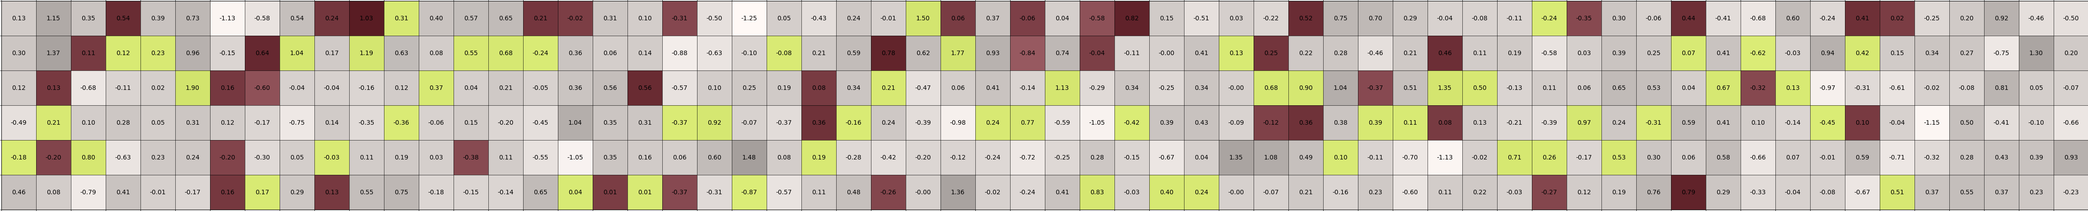
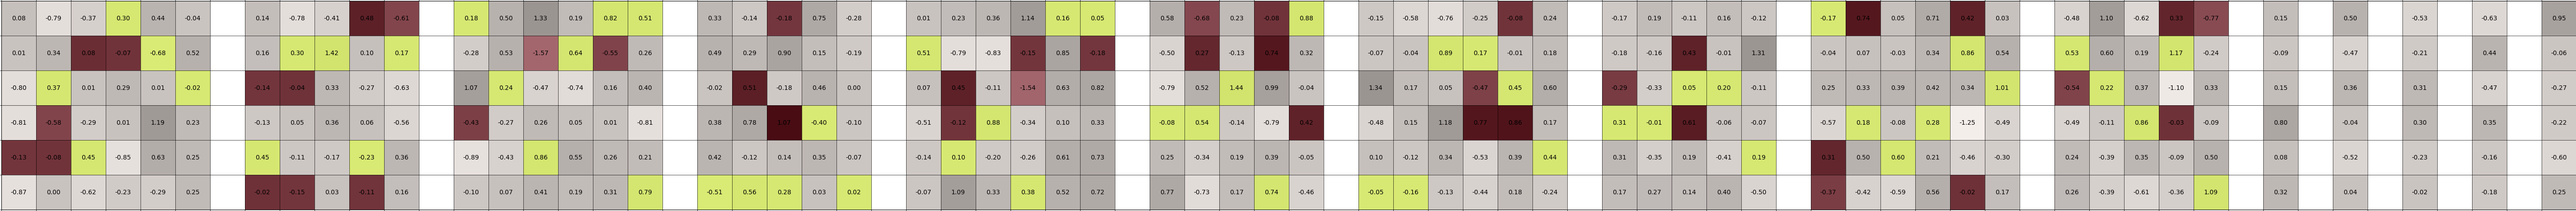
Made so there is space in the evolution images between jobs

diff --git a/code/inference/utils.py b/code/inference/utils.py
@@ -78,11 +78,38 @@ def topk_binary_matrix(tensor: torch.Tensor, k: int, valid_slots: torch.Tensor):
 
 
 
+
+
+
+
+def insert_column_gaps(matrix, job_lengths, gap_size=1):
+    """
+    Inserts NaN columns between job groups.
+    """
+    H, W = matrix.shape
+    new_cols = []
+    col_start = 0
+
+    for i, length in enumerate(job_lengths):
+        cols = matrix[:, col_start:col_start + length]
+        new_cols.append(cols)
+
+        col_start += length
+
+        # insert gap except after last job
+        if i < len(job_lengths) - 1:
+            gap = np.full((H, gap_size), np.nan)
+            new_cols.append(gap)
+
+    return np.concatenate(new_cols, axis=1)
+
+
 def show_schedule_over_time(
     schedule_over_time: torch.Tensor,  # shape (batch, 1, H, W)
     overlay: torch.Tensor,             # shape (1, 1, H, W), binary 0/1
     save_path: str,
     filled_assignments: torch.Tensor,
+    job_lenghts: list[int],
     show_values: bool = False,
     cell_size: float = 0.5,   # NEW: controls how large each cell is
 ):  
@@ -96,24 +123,23 @@ def show_schedule_over_time(
         schedule = schedule_over_time[i, 0].cpu().numpy()
         H, W = schedule.shape
 
-        fig, ax = plt.subplots(figsize=(W * cell_size, H * cell_size))
+        schedule = insert_column_gaps(schedule, job_lenghts, gap_size=1)
+        overlay_matrix_gapped = insert_column_gaps(overlay_matrix, job_lenghts, gap_size=1)
+        filled_mask_gapped = insert_column_gaps(filled_mask, job_lenghts, gap_size=1)
 
-        # base matrix
+        H2, W2 = schedule.shape
+
+        fig, ax = plt.subplots(figsize=(W2 * cell_size, H * cell_size))
+
         ax.matshow(schedule, cmap="gray_r")
+        ax.matshow(overlay_matrix_gapped, cmap="Reds", alpha=0.6)
 
-        # red overlay
-        ax.matshow(overlay_matrix, cmap="Reds", alpha=0.6)
-
-        # --- yellow overlay ---
-        # intensity based on how close schedule value is to 1
-        yellow_mask = filled_mask == 1
-        yellow_overlay = np.ma.masked_where(~yellow_mask, filled_mask)
-
+        yellow_mask = filled_mask_gapped == 1
+        yellow_overlay = np.ma.masked_where(~yellow_mask, filled_mask_gapped)
         ax.matshow(yellow_overlay, cmap="Wistia", alpha=0.9)
 
-
-        # grid lines
-        ax.set_xticks(np.arange(-0.5, W, 1), minor=True)
+        # grid
+        ax.set_xticks(np.arange(-0.5, W2, 1), minor=True)
         ax.set_yticks(np.arange(-0.5, H, 1), minor=True)
         ax.grid(which="minor", color="black", linewidth=0.5)
 
@@ -122,20 +148,13 @@ def show_schedule_over_time(
 
         if show_values:
             for y in range(H):
-                for x in range(W):
+                for x in range(W2):
                     value = schedule[y, x]
-                    ax.text(
-                        x, y,
-                        f"{value:.2f}",
-                        va="center",
-                        ha="center",
-                        fontsize=10
-                    )
+                    if not np.isnan(value):
+                        ax.text(x, y, f"{value:.2f}", va="center", ha="center", fontsize=10)
 
         plt.savefig(f"{save_path}/{i+1}.png", bbox_inches="tight", pad_inches=0)
         plt.close()
-
-
 
 
 

diff --git a/code/inference/main.py b/code/inference/main.py
@@ -20,7 +20,7 @@ import matplotlib
 matplotlib.use('Agg')
 
 import torch
-
+import numpy as np
 
 def compute_job_lengths(indices):
     """
@@ -206,13 +206,16 @@ def get_inference_result(problem_type, instance_idx, model_type, order: bool):
         #utils.show_schedule_over_time(result, ops_ma_adj, save_path, show_values=True)
         print("ops se order")
 
-        column_groups = [5,6,5,6,5,6,5,6,5,6]
-
+        # ops_sequence_order = td["ops_sequence_order"][:,:,:6,:60]
+        values = np.linspace(0, 1, 56)[1:]  # remove the 0
+        print(values)
+        job_lenghts = utils.make_job_lengths(ops_sequence_order)
         utils.show_schedule_over_time(
             result,
             ops_ma_adj,
             save_path,
             given_assignments,
+            job_lenghts,
             show_values = True,
             cell_size = 1
         )

diff --git a/notater/todo.md b/notater/todo.md
@@ -1,4 +1,42 @@
 
+
+Skeduleringsfeil kommer av fogjande:
+Nar det er mange oppgaver, blir det stort spenn av aktuelle verdier.
+
+Med 55 verdier mellom 0 og 1, sa er den forte verdien nesten a 0.02
+Nar det ikke er feil, sa ser det ut som den minste verdien er hoyere enn det ville trodd, eks 0.04
+
+Jeg tror hvis man har storre spenn, sa kan det kanskje lose problemet. Na er det mellom 0 og 1.
+Men kan hende diff modellen eks tillater mellom -2 og 2
+
+
+Vrdn best fikse skeduleringsfeil, nar dem faktisk hender
+
+
+Sett:
+Gjerne den fyste, altsa minste oppgaven fra en jobb, der det ikke er assignment
+Der det er to verdier assignet, kan begge verdiene vere hoye, men de er gjerne begge lavere enn neste verdi
+
+Jeg tror nar en er skedulert fur en pred, sa er de begge veldig like i verdi
+
+Det kan hende sked feil fordi noen fa verdier er hoye, men utenfor gyldige steder
+....
+
+
+
+
+
+
+
+
+
+
+
+
+
+
+
+
 Test guiding for inference
 test guiding for trening
 
